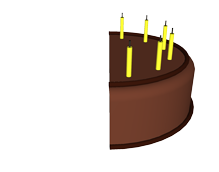
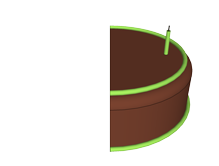
Added new images for cake 1/2 and 1/3 divisions Show empty cake divisions up to 6 pies

Changed region(s): [[0.4932, 0.0602, 0.9041, 0.9337], [0.6575, 0.6325, 0.6849, 0.6627], [0.6027, 0.6325, 0.6301, 0.6627]]

diff --git a/simulations-java/simulations/fractions/src/edu/colorado/phet/fractions/intro/intro/view/CakeSetFractionNode.java b/simulations-java/simulations/fractions/src/edu/colorado/phet/fractions/intro/intro/view/CakeSetFractionNode.java
@@ -21,12 +21,14 @@ public class CakeSetFractionNode extends VisibilityNode {
     //Order that slices appear in the cake as the user adds them
     HashMap<Integer, int[]> orderToAdd = new HashMap<Integer, int[]>() {{
         put( 2, new int[] { 2, 1 } );
+        put( 3, new int[] { 1, 2, 3 } );
         put( 12, new int[] { 4, 5, 6, 7, 8, 9, 10, 11, 12, 1, 2, 3 } );
     }};
 
     //Find which should appear before/after others in z-ordering.  Must be back to front.
     HashMap<Integer, int[]> renderOrder = new HashMap<Integer, int[]>() {{
         put( 2, new int[] { 2, 1 } );
+        put( 3, new int[] { 1, 2, 3 } );
         put( 12, new int[] { 3, 4, 5, 2, 6, 1, 7, 12, 8, 11, 9, 10 } );
     }};
 
@@ -47,17 +49,29 @@ public class CakeSetFractionNode extends VisibilityNode {
                 int slicesInLastCake = numerator.get() % d;
                 SpacedHBox box = new SpacedHBox( DIAMETER + distanceBetweenPies );
 
-                if ( d == 2 || d == 12 ) {
+                if ( orderToAdd.containsKey( d ) ) {
+
+                    int numAdded = 0;
                     for ( int i = 0; i < numFullCakes; i++ ) {
                         box.addChild( new CakeNode( d, getSliceArray( d, d ) ) {{
                             scale( 0.9 );
                         }} );
+                        numAdded++;
                     }
 
                     if ( slicesInLastCake > 0 ) {
                         box.addChild( new CakeNode( d, getSliceArray( slicesInLastCake, d ) ) {{
                             scale( 0.9 );
                         }} );
+                        numAdded++;
+                    }
+
+                    //Show empty cake grids up until the max allowed
+                    while ( numAdded <= 6 ) {
+                        box.addChild( new CakeNode( d, getSliceArray( 0, d ) ) {{
+                            scale( 0.9 );
+                        }} );
+                        numAdded++;
                     }
                 }
                 else {

diff --git a/simulations-java/simulations/fractions/src/edu/colorado/phet/fractions/intro/intro/view/RepresentationArea.java b/simulations-java/simulations/fractions/src/edu/colorado/phet/fractions/intro/intro/view/RepresentationArea.java
@@ -34,7 +34,7 @@ public class RepresentationArea extends PNode {
             setOffset( 10, 15 );
         }} );
         addChild( new CakeSetFractionNode( numerator, denominator, chosenRepresentation.valueEquals( ChosenRepresentation.CAKE ) ) {{
-            setOffset( 0, 0 );
+            setOffset( -18, -40 );
         }} );
         addChild( new WaterGlassSetFractionNode( containerState, chosenRepresentation.valueEquals( ChosenRepresentation.WATER_GLASSES ) ) {{
             setOffset( 15, -65 );
